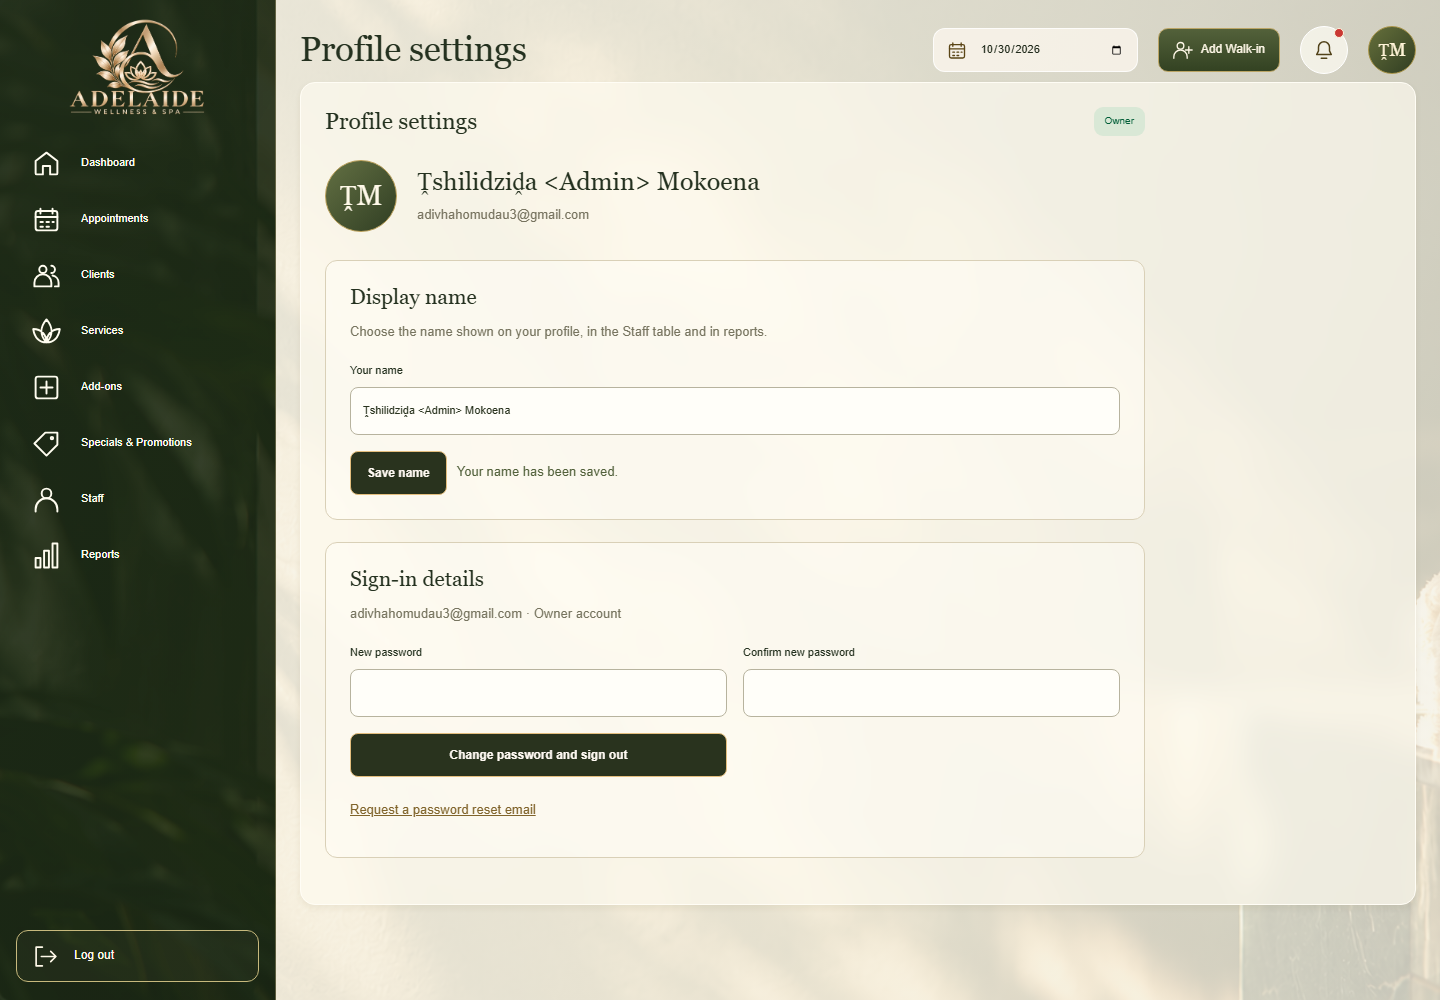
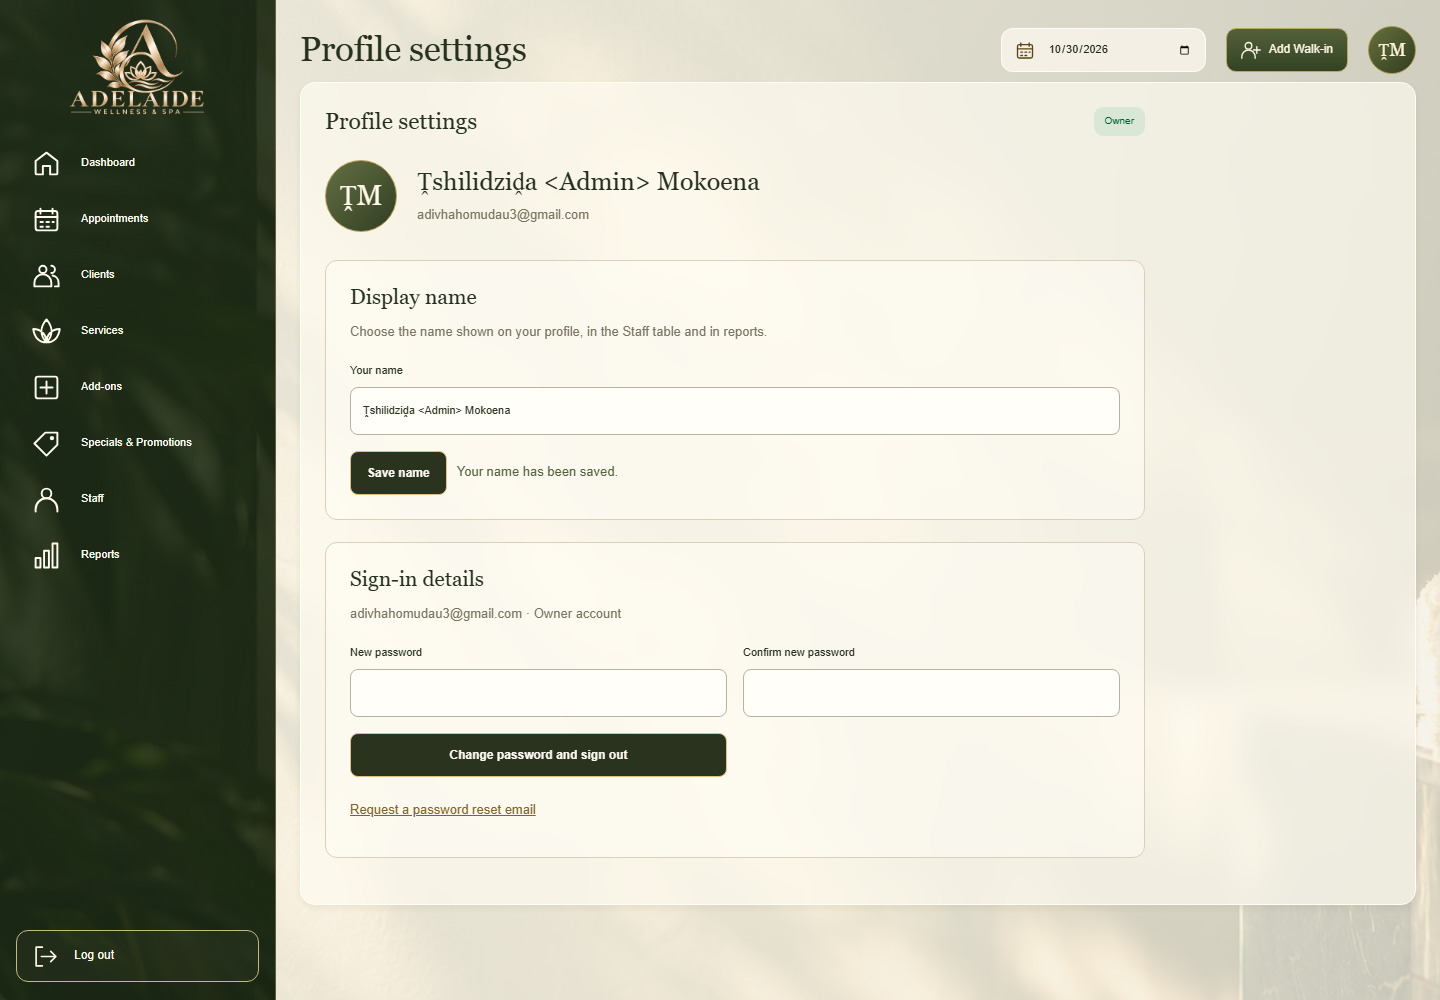
Refactor code structure for improved readability and maintainability

Changed region(s): [[0.625, 0.0, 0.9375, 0.093]]

diff --git a/css/admin-dashboard.css b/css/admin-dashboard.css
@@ -23,11 +23,11 @@ button { cursor: pointer; }
 .sidebar-logout:hover { background: #f7e7b91a; }
 .avatar { display: grid; place-items: center; width: 48px; height: 48px; flex: 0 0 auto; border: 1px solid #a89449; border-radius: 50%; background: linear-gradient(135deg, #66703b, #303d22); color: #fff4d8; font: 18px var(--serif); }
 .dashboard-page .dashboard-main { width: auto; min-height: 100vh; margin: 0 0 0 276px; padding: 26px 24px 14px; }
-.dashboard-header { display: flex; flex-wrap: wrap; justify-content: space-between; align-items: center; gap: 20px; margin-bottom: 8px; }
+.dashboard-header { display: grid; grid-template-columns: minmax(0,1fr) auto 48px; align-items: center; gap: 20px; margin-bottom: 8px; }
 .heading-group { display: flex; align-items: center; gap: 12px; min-width: 0; }
 .dashboard-header h1 { font-size: clamp(23px, 2.46vw, 37px); line-height: 1.12; letter-spacing: -.5px; }
 .dashboard-header p { margin-top: 7px; font-size: 15px; color: #343c2c; }
-.header-actions { display: flex; align-items: center; gap: 20px; }
+.header-actions { display: flex; align-items: center; gap: 20px; margin-left: auto; }
 .header-walkin { display: inline-flex; align-items: center; justify-content: center; gap: 8px; min-height: 44px; padding: 10px 14px; border: 1px solid #bba565; border-radius: 10px; background: linear-gradient(#53613a, #334222); color: #fff8e8; white-space: nowrap; font-size: 12px; }
 .header-walkin:hover { background: #334222; }
 .header-walkin .di { width: 20px; height: 20px; }
@@ -234,6 +234,15 @@ dialog::backdrop { background: #16200e85; backdrop-filter: blur(8px); }
  .dashboard-page .dashboard-main { margin-left: 0; padding: 20px; }
  .sidebar-toggle { display: inline-flex; }
  .heading-group { align-items: flex-start; }
+ .dashboard-header { display: grid; grid-template-columns: minmax(0,1fr) 44px; align-items: start; gap: 16px 12px; }
+ .dashboard-header .heading-group { grid-column: 1; grid-row: 1; min-width: 0; }
+ .dashboard-header>.account-button { grid-column: 2; grid-row: 1; width: 44px; height: 44px; justify-self: end; font-size: 17px; }
+ .dashboard-header .header-actions { grid-column: 1/-1; grid-row: 2; display: grid; grid-template-columns: minmax(0,1fr) auto; gap: 10px; width: 100%; margin: 0; }
+ .dashboard-header .date-picker { grid-column: 1; min-width: 0; gap: 8px; padding-inline: 10px; }
+ .dashboard-header .date-picker input { width: 100%; flex: 1; min-width: 0; }
+ .dashboard-header .header-walkin { grid-column: 2; justify-self: stretch; padding-inline: 12px; }
+ .dashboard-welcome,.dashboard-person { display: block; }
+ .dashboard-person { margin-top: 4px; font-size: .92em; line-height: 1.2; }
  .stats-grid { grid-template-columns: repeat(4,minmax(0,1fr)); }
  .dashboard-navigation > button { min-height: 44px; }
  .dashboard-navigation { gap: 2px; }
@@ -242,14 +251,10 @@ dialog::backdrop { background: #16200e85; backdrop-filter: blur(8px); }
 }
 @media (max-width: 640px) {
  .dashboard-page .dashboard-main { padding: 16px 12px; }
- .dashboard-header { flex-wrap: wrap; gap: 14px; }
+ .dashboard-header { gap: 16px 10px; }
  .dashboard-header h1 { font-size: 24px; }
  .dashboard-header p { font-size: 11px; line-height: 1.6; }
- .header-actions { display: grid; grid-template-columns: minmax(0, 1fr) 44px 42px; width: 100%; padding-left: 0; }
- .date-picker { grid-column: 1 / -1; margin-right: 0; }
- .date-picker input { flex: 1; }
- .header-walkin { justify-self: start; }
- .account-button { width: 42px; height: 42px; font-size: 16px; }
+ .header-actions { padding-left: 0; }
  .preview-indicator { margin-top: 8px; }
  .stats-grid { grid-template-columns: repeat(2,minmax(0,1fr)); }
  .stat-card { min-height: 138px; gap: 12px; }

diff --git a/admin-dashboard.html b/admin-dashboard.html
@@ -15,7 +15,7 @@
 </aside>
 <button class="sidebar-backdrop" type="button" aria-label="Close navigation" hidden></button>
 <main id="main" class="page-main dashboard-main">
-<header class="dashboard-header"><div class="heading-group"><button class="sidebar-toggle icon-button" type="button" aria-label="Open navigation" aria-expanded="false" aria-controls="sidebar"><span class="di" data-icon="menu" aria-hidden="true"></span></button><div><h1 id="page-title">Good morning, Admin</h1></div></div><div class="header-actions"><label class="date-picker"><span class="di" data-icon="calendar" aria-hidden="true"></span><span class="sr-only">Dashboard date</span><input type="date" id="dashboard-date"></label><button class="header-walkin" type="button" data-create="walkin"><span class="di" data-icon="userplus" aria-hidden="true"></span>Add Walk-in</button><button class="account-button avatar" type="button" data-section="Profile settings" aria-label="Open profile settings" title="Profile settings">AD</button></div></header>
+<header class="dashboard-header"><div class="heading-group"><button class="sidebar-toggle icon-button" type="button" aria-label="Open navigation" aria-expanded="false" aria-controls="sidebar"><span class="di" data-icon="menu" aria-hidden="true"></span></button><div><h1 id="page-title">Good morning, Admin</h1></div></div><div class="header-actions"><label class="date-picker"><span class="di" data-icon="calendar" aria-hidden="true"></span><span class="sr-only">Dashboard date</span><input type="date" id="dashboard-date"></label><button class="header-walkin" type="button" data-create="walkin"><span class="di" data-icon="userplus" aria-hidden="true"></span>Add Walk-in</button></div><button class="account-button avatar" type="button" data-section="Profile settings" aria-label="Open profile settings" title="Profile settings">AD</button></header>
 <div id="dashboard-view">
 <section class="stats-grid" aria-label="Appointment overview">
 <article class="stat-card glass"><span class="stat-icon"><span class="di" data-icon="calendar" aria-hidden="true"></span></span><div><strong class="stat-number" id="stat-total">0</strong><p>Today's Appointments</p><span class="stat-detail">For the selected date</span></div></article><article class="stat-card glass"><span class="stat-icon"><span class="di" data-icon="user" aria-hidden="true"></span></span><div><strong class="stat-number" id="stat-walkin">0</strong><p>Walk-in Clients</p><span class="stat-detail">For the selected date</span></div></article><article class="stat-card glass"><span class="stat-icon"><span class="di" data-icon="check" aria-hidden="true"></span></span><div><strong class="stat-number" id="stat-completed">0</strong><p>Completed</p><span class="stat-detail">For the selected date</span></div></article><article class="stat-card glass"><span class="stat-icon"><span class="di" data-icon="cancel" aria-hidden="true"></span></span><div><strong class="stat-number" id="stat-cancelled">0</strong><p>Cancelled</p><span class="stat-detail">For the selected date</span></div></article>

diff --git a/js/admin-live.js b/js/admin-live.js
@@ -49,7 +49,13 @@
     $('#dashboard-view').hidden=!dashboard;$('#module-view').hidden=dashboard;
     const name=viewerName(),avatar=$('.account-button');
     avatar.textContent=profileInitials(name);avatar.title=name+' · Profile settings';avatar.setAttribute('aria-label','Profile settings for '+name);
-    $('#page-title').textContent=section==='Dashboard'?(data.viewer_display_name?'Welcome, '+name:'Welcome to Adelaide'):section;
+    const heading=$('#page-title');
+    if(section==='Dashboard'&&data.viewer_display_name){
+      const welcome=document.createElement('span'),person=document.createElement('span');
+      welcome.className='dashboard-welcome';welcome.textContent='Welcome,';
+      person.className='dashboard-person';person.textContent=name;
+      heading.replaceChildren(welcome,' ',person);
+    }else heading.textContent=section==='Dashboard'?'Welcome to Adelaide':section;
     if(!dashboard)renderModule();
   }
   function serviceOptions(all=false){return data.services.filter(s=>all||s.active).map(s=>'<option value="'+s.id+'">'+esc(s.name)+'</option>').join('');}
